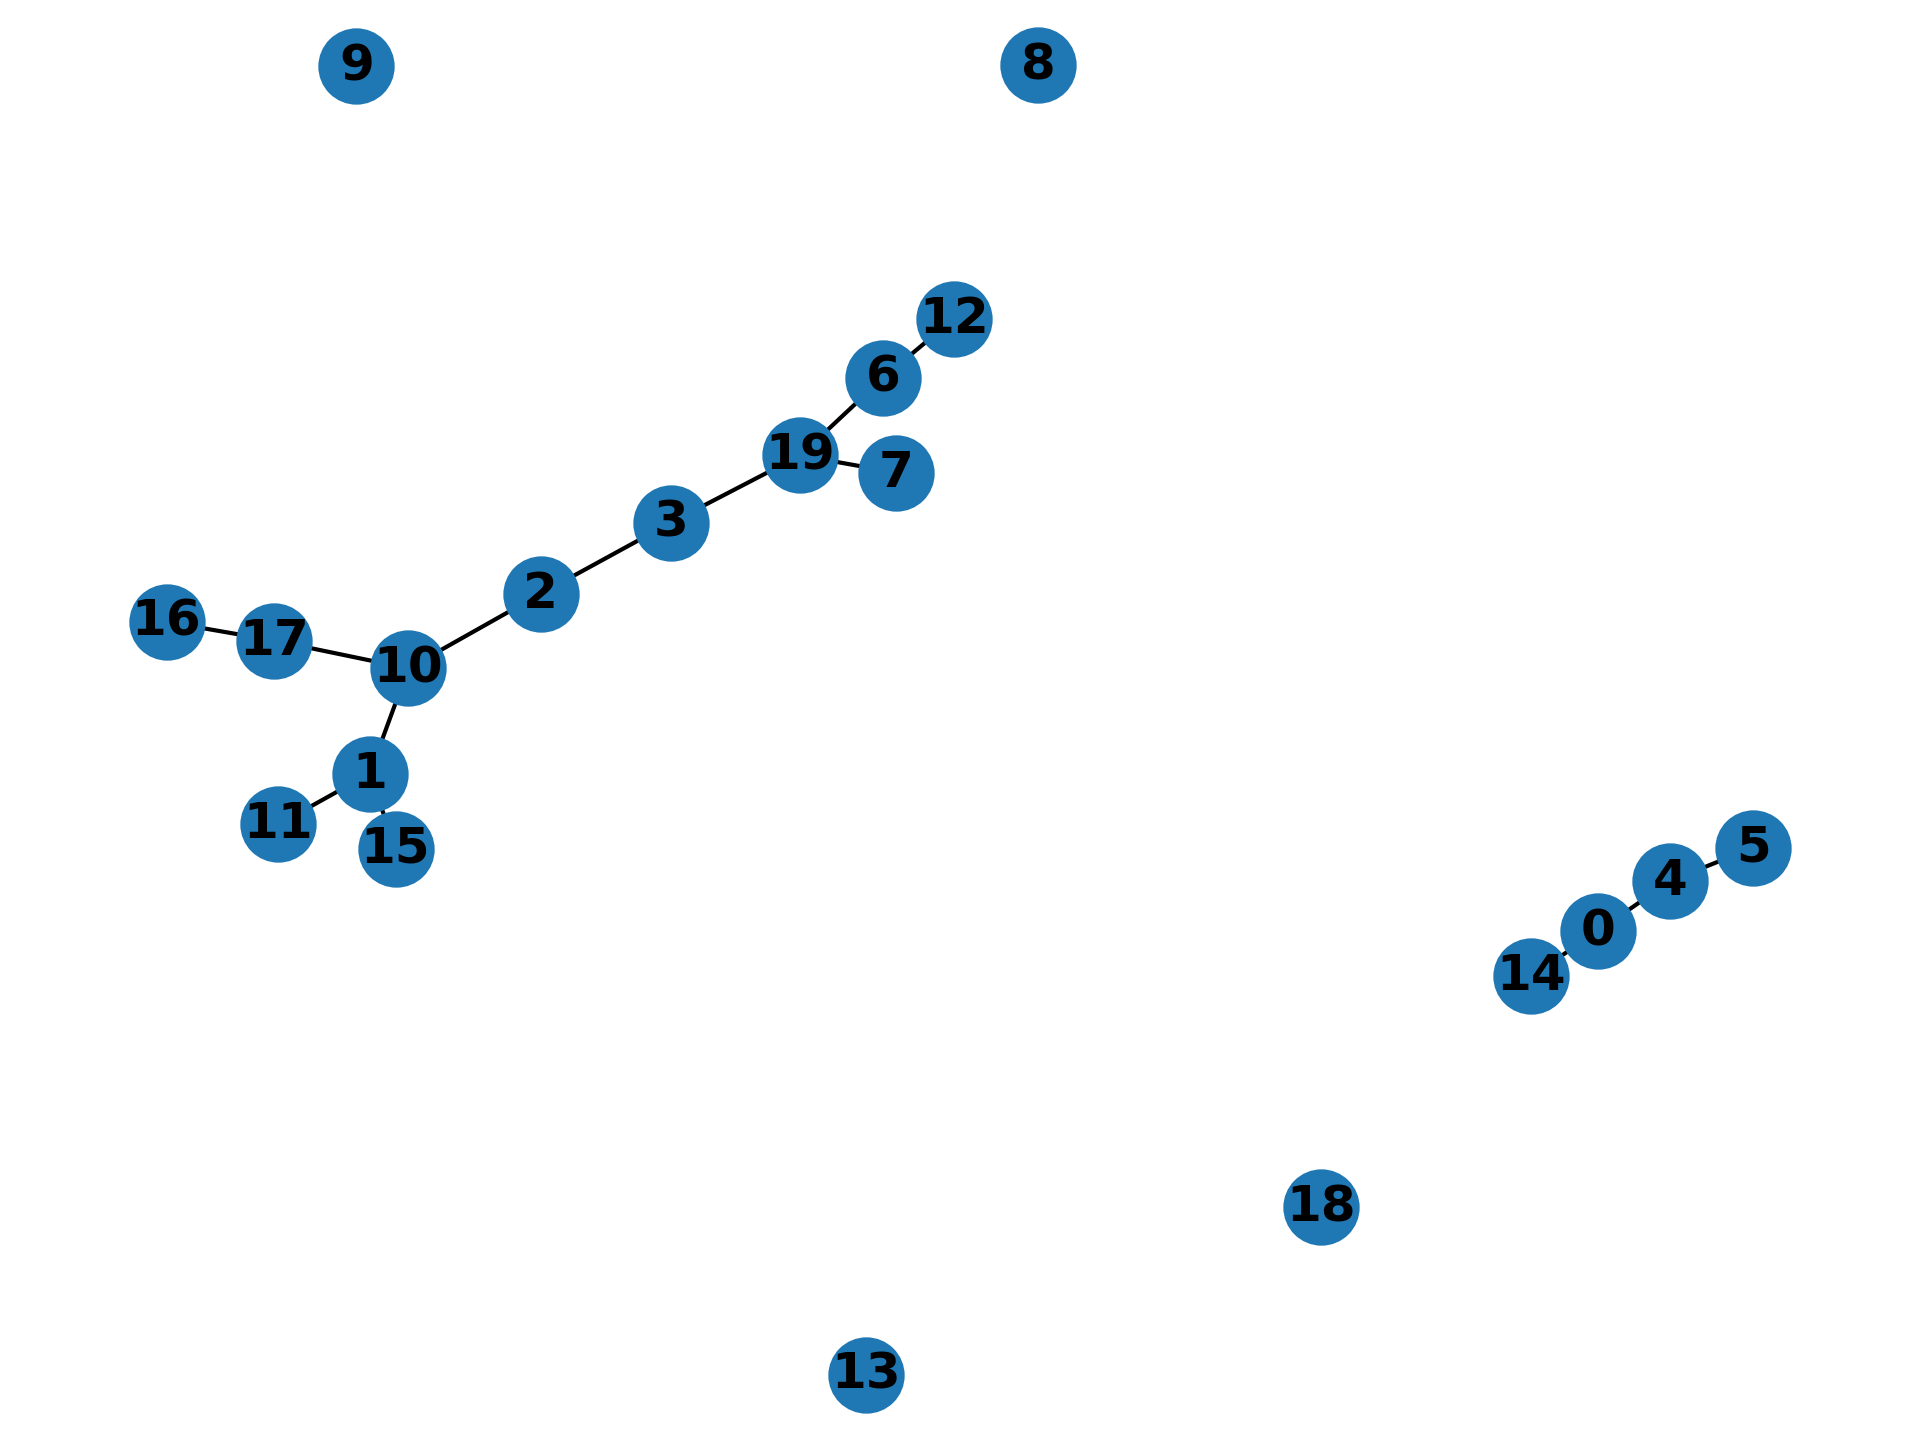
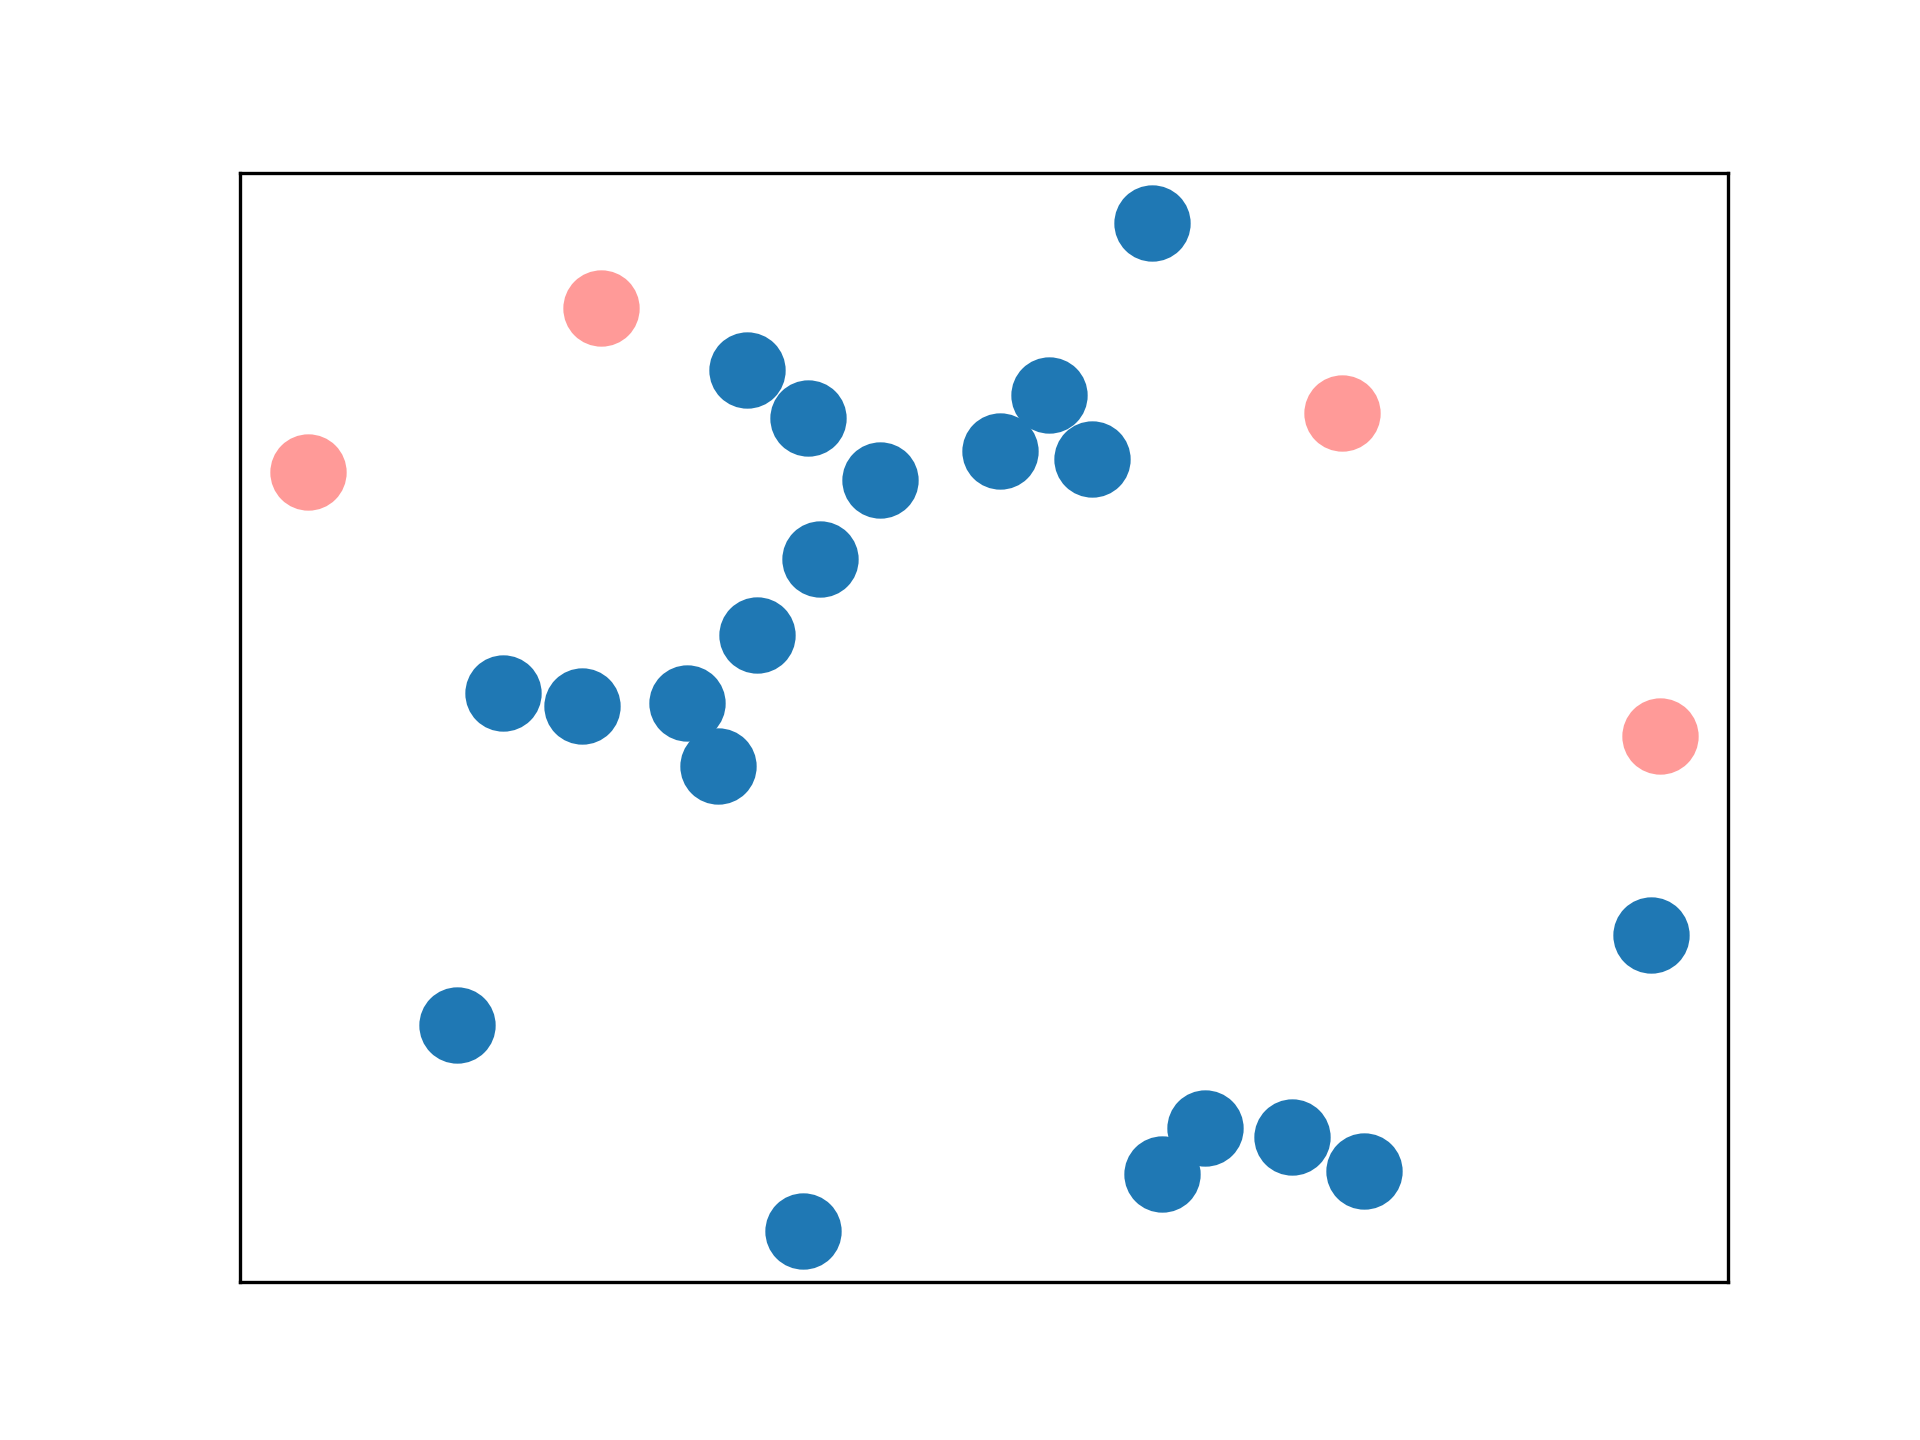
Finished distinct isolated nodes. Now trying BFS

diff --git a/mo_test/testing_plot.py b/mo_test/testing_plot.py
@@ -29,6 +29,7 @@ import networkx as nx
 #                       Need to check, but if in strict order, could use a simple O(n) to change to a new color
 
 #Isolated Nodes
+#   https://networkx.org/documentation/stable/reference/algorithms/generated/networkx.algorithms.isolate.isolates.html
 #   nx.isolates():
 #       find the degree of 0
 #   https://networkx.org/documentation/stable/reference/generated/networkx.drawing.nx_pylab.draw_networkx_nodes.html#networkx.drawing.nx_pylab.draw_networkx_nodes
@@ -52,15 +53,35 @@ def load_gml(path: str):
 def plot(G, n: list[int], image_num):
 
 
-  labels = nx.draw(G, with_labels=True, font_weight='bold', pos=nx.spring_layout(G))
+  #nx.draw(G, with_labels=True, font_weight='bold', pos=nx.spring_layout(G))
   
-  """ for nx.draw_networkx_labels
+  #Figuring out a way to differentiate the isolated nodes
+  # with_labels=True, font_weight='bold',
+  #with_labels=True, font_weight='bold'
+
+  #need a set location
+  pos = nx.spring_layout(G)   #maybe add seed=42 later
+
+  isolated_nodes = list(nx.isolates(G))
+  print(f"isolated_nodes: {isolated_nodes}")
+  print()
+  
+  
+  #now drawing the other nodes
+  connected_nodes = list([node for components in nx.connected_components(G) for node in components])
+
+  nx.draw_networkx_nodes(G, pos, nodelist=list(connected_nodes))
+  nx.draw_networkx_nodes(G, pos, nodelist=isolated_nodes, node_color='#ff9a98')
+
+  nx.draw_networkx_labels(G,pos, labels={node: node for node in G.nodes})
+
+  """ for nx.draw_networkx_labels; need labels =
   for target, values in labels.items():
     print(f"{target}: {values}")
   """
   
   plt.draw()
-  plt.savefig("bfs_visualization_mo_analyze{n}.png", dpi=300)
+  plt.savefig(f"bfs_visualization_mo_analyze{image_num}.png", dpi=300)
 
 
 #Try out using nx.draw(G)
@@ -69,7 +90,7 @@ def plot(G, n: list[int], image_num):
 def main():
   G = load_gml("mo_load_gml.gml")
   roots = [1, 2]
-  number_image = 0
+  number_image = 1
 
   plot(G, roots, number_image)
 
